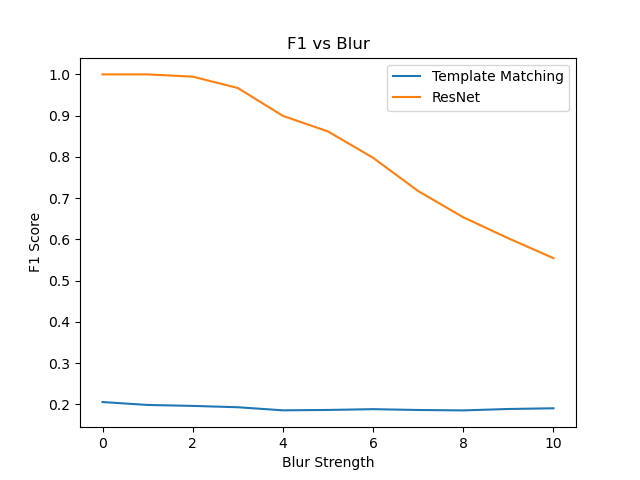
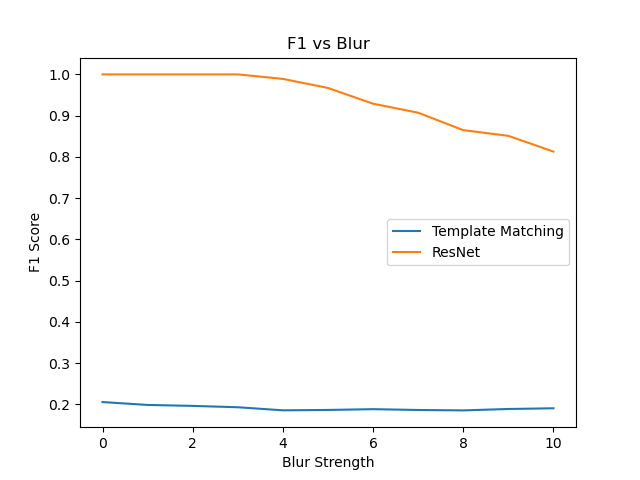
Adjusting blur
Changed blur function to match

diff --git a/eval_resnet.py b/eval_resnet.py
@@ -1,4 +1,6 @@
 import os
+import cv2
+import numpy as np
 import json
 import torch
 import torchvision.transforms as transforms
@@ -49,8 +51,17 @@ def evaluate(blur_strength):
 
         img = Image.open(img_path).convert("RGB")
 
+        img = np.array(img)
+
+        img = cv2.cvtColor(img, cv2.COLOR_RGB2BGR)
+
         if blur_strength > 0:
-            img = img.filter(ImageFilter.GaussianBlur(radius=blur_strength))
+            k = 2 * blur_strength + 1
+            img = cv2.GaussianBlur(img, (k, k), blur_strength)
+
+        img = cv2.cvtColor(img, cv2.COLOR_BGR2RGB)
+
+        img = Image.fromarray(img)
 
         img = transform(img).unsqueeze(0).to(device)
 
